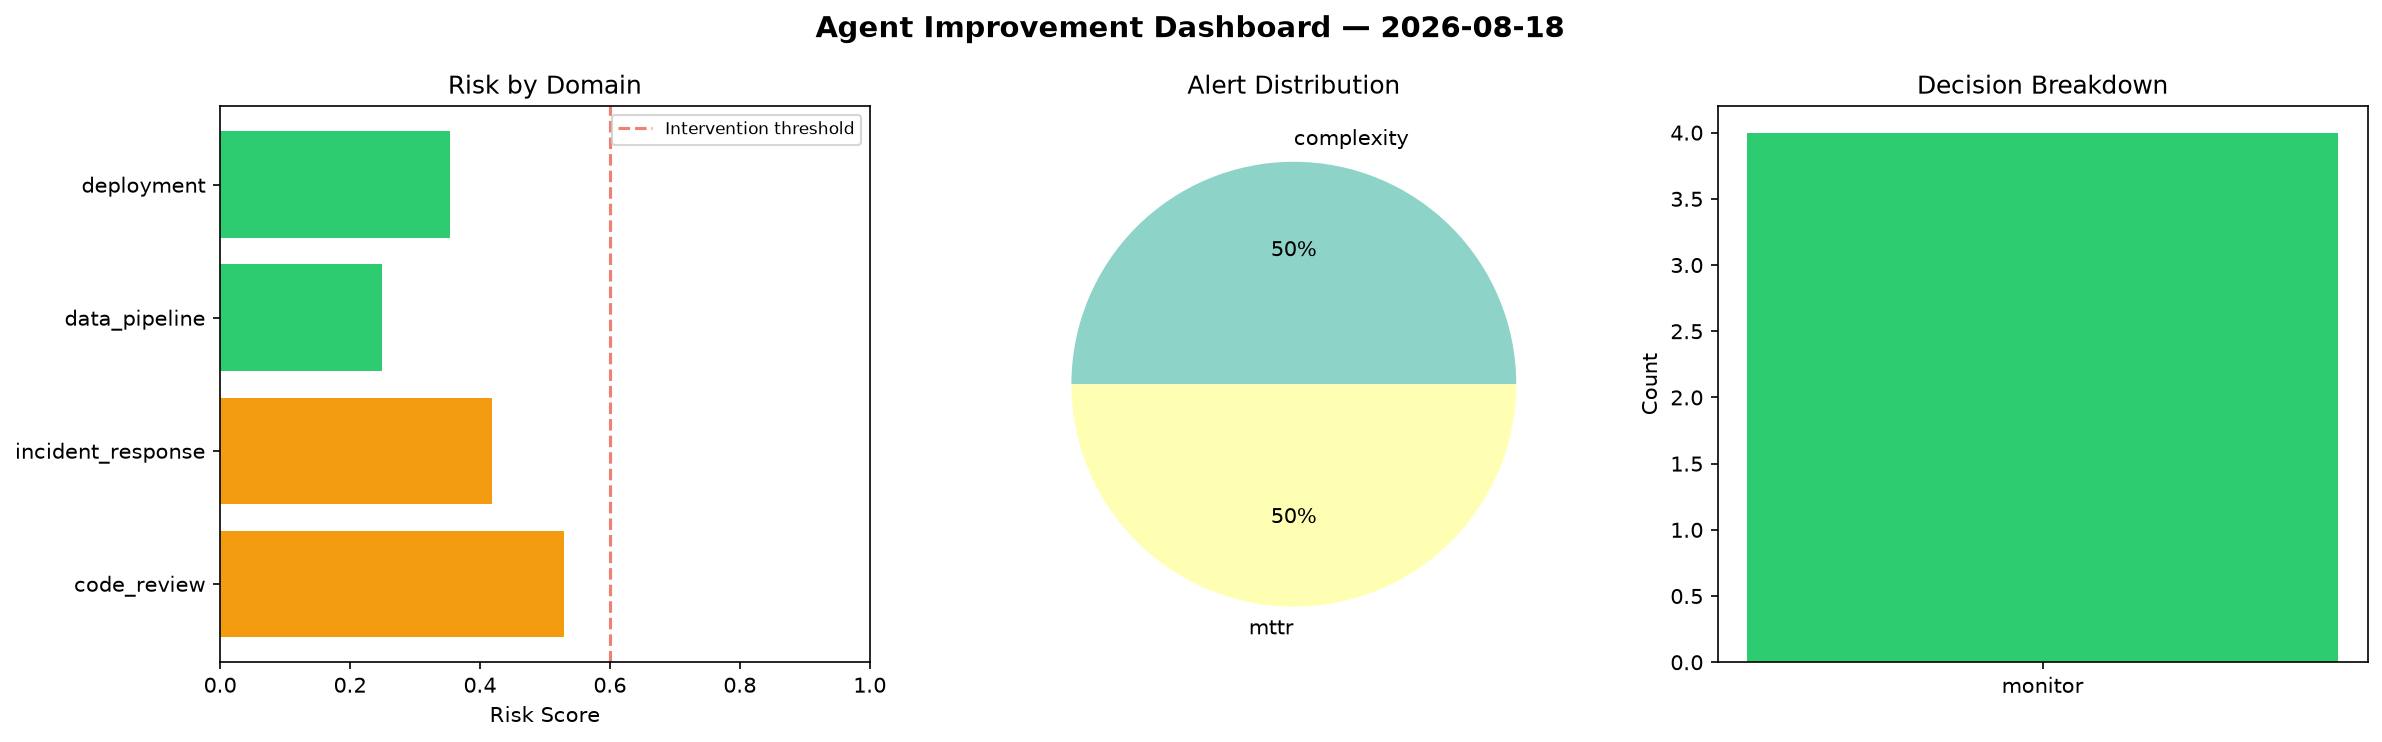
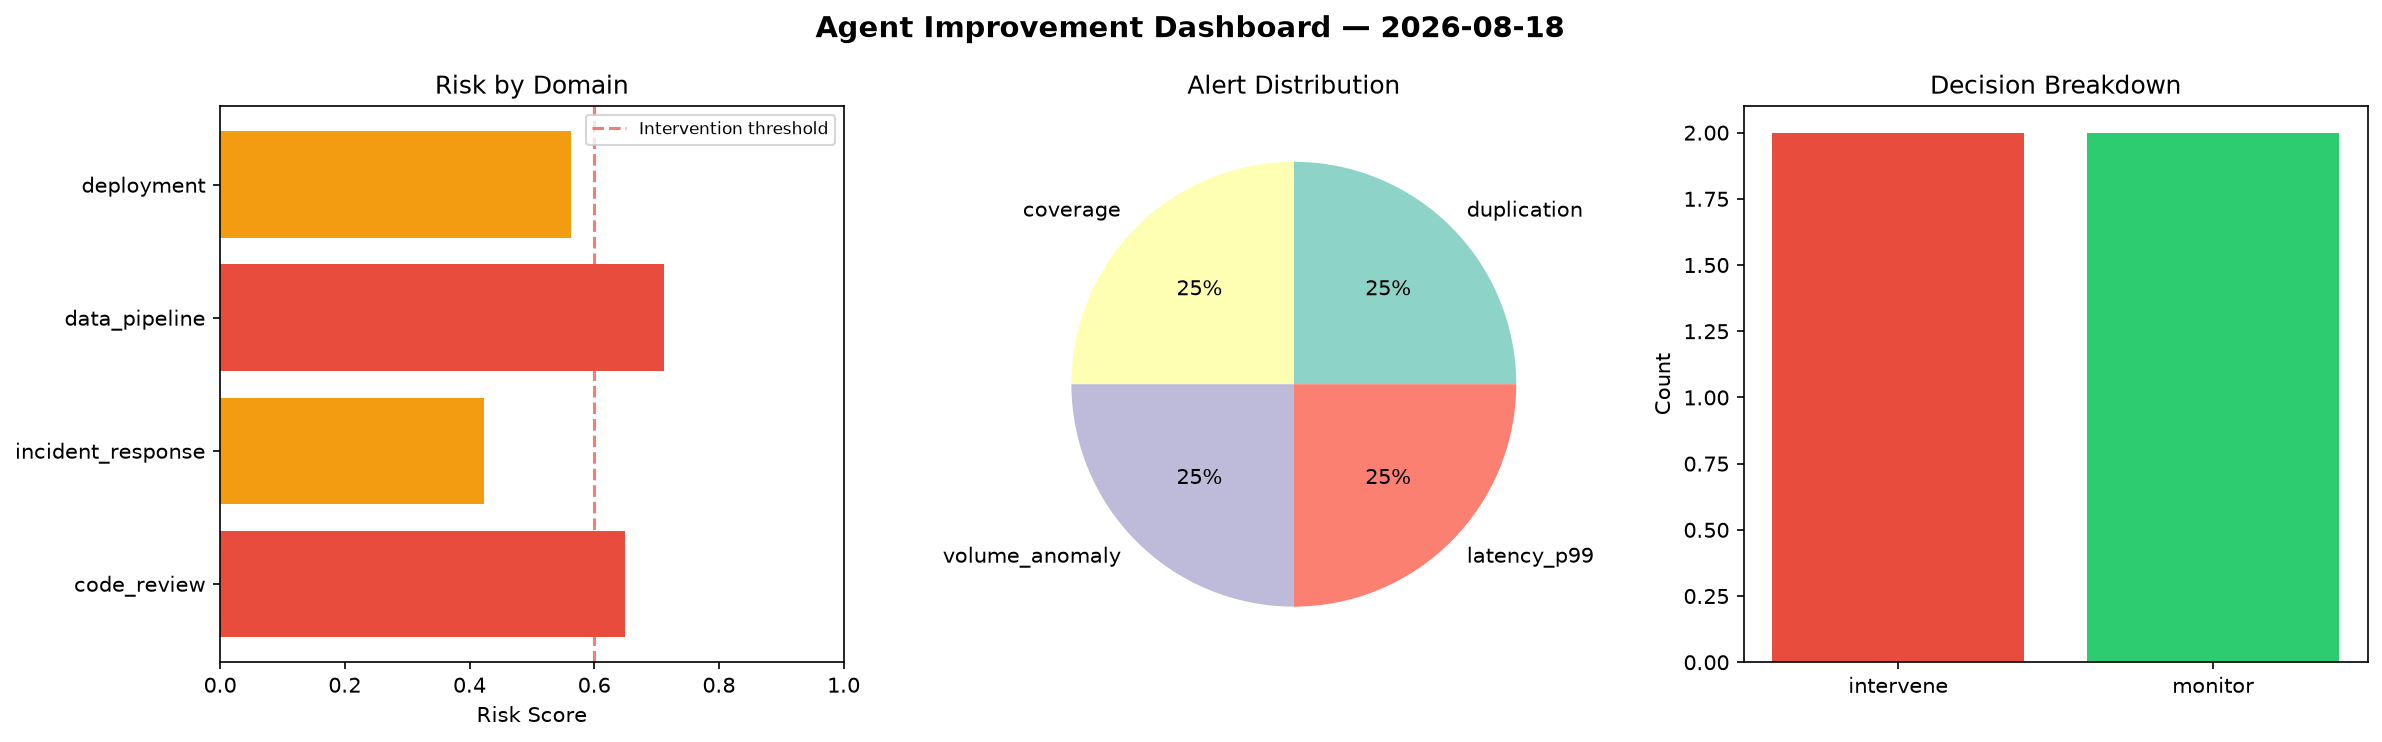
agent-improvement: daily cycle 2026-08-18T08:53

diff --git a/logs/2026-08-18.md b/logs/2026-08-18.md
@@ -1,6 +1,6 @@
 # Agent Improvement Report — 2026-08-18
 
-**Cycle ID:** `50b568f9` | **Avg Risk:** 0.388 | **Interventions:** 0/4
+**Cycle ID:** `518a9213` | **Avg Risk:** 0.5866 | **Interventions:** 2/4
 
 ![Dashboard](2026-08-18_dashboard.png)
 
@@ -10,18 +10,18 @@
 
 | Domain | Risk Score | Decision | Alerts |
 |--------|-----------|----------|--------|
-| code_review | 0.5298 | monitor | complexity |
-| incident_response | 0.4188 | monitor | mttr |
-| data_pipeline | 0.2489 | monitor | none |
-| deployment | 0.3544 | monitor | none |
+| code_review | 0.649 | intervene | duplication, coverage |
+| incident_response | 0.4232 | monitor | none |
+| data_pipeline | 0.7116 | intervene | volume_anomaly |
+| deployment | 0.5625 | monitor | latency_p99 |
 
 ## Delta vs Yesterday
 
 | Domain | Today | Yesterday | Change |
 |--------|-------|-----------|--------|
-| code_review | 0.5298 | 0.4701 | 📈 12.7% |
-| incident_response | 0.4188 | 0.3464 | 📈 20.9% |
-| data_pipeline | 0.2489 | 0.6067 | 📉 -59.0% |
-| deployment | 0.3544 | 0.4893 | 📉 -27.6% |
+| code_review | 0.649 | 0.4701 | 📈 38.1% |
+| incident_response | 0.4232 | 0.3464 | 📈 22.2% |
+| data_pipeline | 0.7116 | 0.6067 | 📈 17.3% |
+| deployment | 0.5625 | 0.4893 | 📈 15.0% |
 
 **Refinement:** `{'adjustment': 'maintain', 'trend': 'improving', 'window': 4}`
